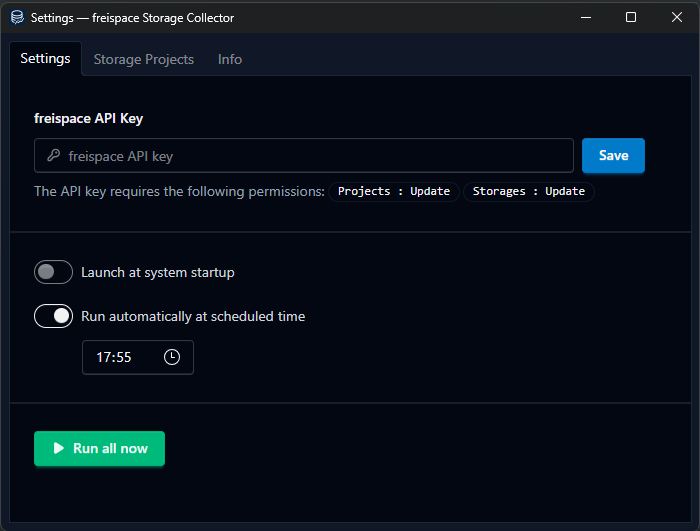
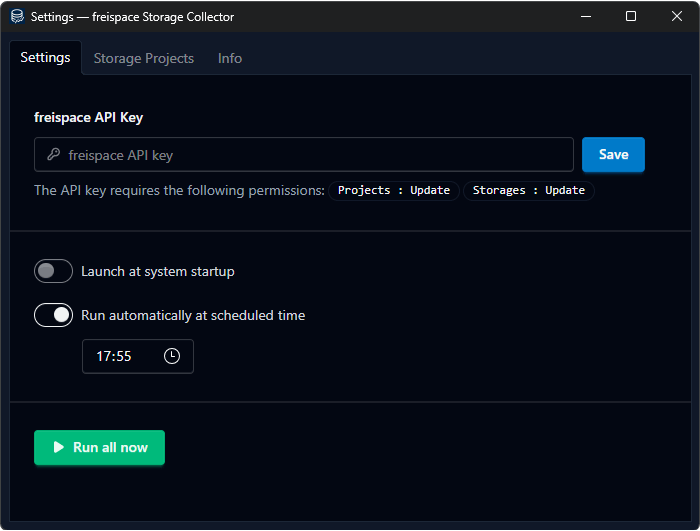
Updated readme [ci skip]

diff --git a/README.md b/README.md
@@ -16,12 +16,16 @@ A cross-platform desktop tray app that monitors local folder sizes and submits s
 
 ## How to use
 
-1. Create an API key in freispace. Required permissions: `Projects:Update` & `Storage:Update`
+1. Create an API key in freispace. Required permissions: `Projects:Update` & `Storages:Update`
 2. Paste it in the the freispace Storage Collector
 
 ![Screenshot of freispace Storage Collector](docs/freispace-storage-collector-settings.png)
 
 3. Update the list of Project Storages, select and, and select the folders to monitor
+
+### Notice: Missing certificates
+
+We are working on obtaining certificated and signing the Mac OS and Windows versions of the app. **At the moment, both Windows and Mac OS might throw warnings when trying to launch the apps.** On Mac OS, you might need to manually allow execution in the settings.
 
 ## Tech stack
 